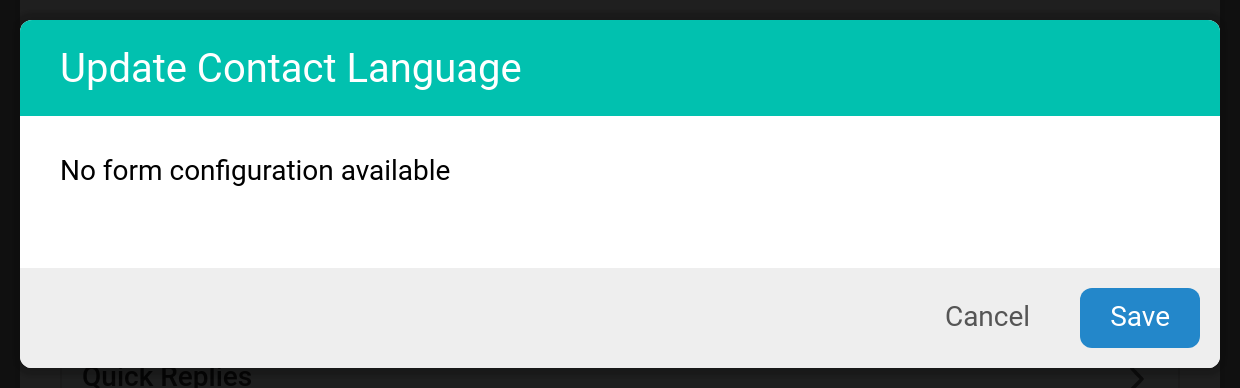
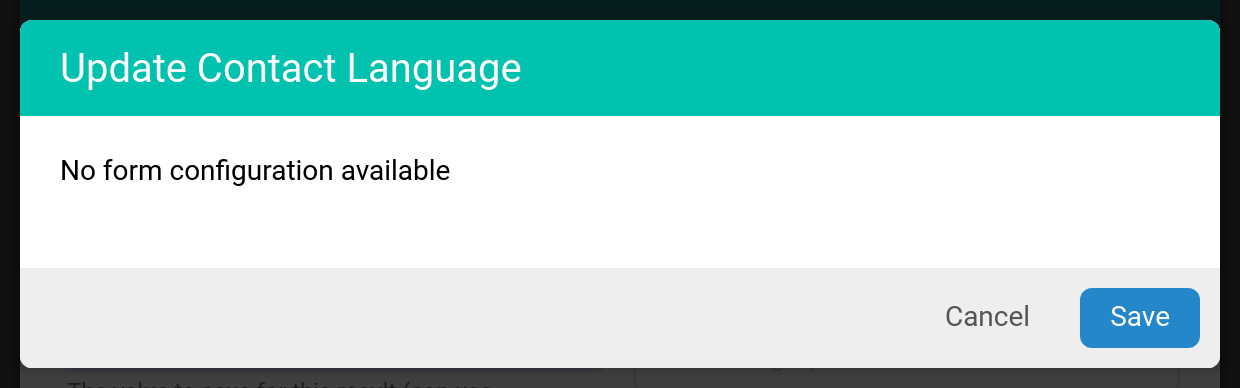
Save results into app state

Changed region(s): [[0.0, 0.9278, 1.0, 1.0], [0.0, 0.0, 1.0, 0.0309]]

diff --git a/src/flow/actions/set_run_result.ts b/src/flow/actions/set_run_result.ts
@@ -1,11 +1,85 @@
 import { html } from 'lit-html';
 import { ActionConfig, COLORS } from '../types';
 import { Node, SetRunResult } from '../../store/flow-definition';
+import { getStore } from '../../store/Store';
 
 export const set_run_result: ActionConfig = {
   name: 'Save Flow Result',
   color: COLORS.save,
   render: (_node: Node, action: SetRunResult) => {
     return html`<div>Save ${action.value} as <b>${action.name}</b></div>`;
+  },
+  form: {
+    name: {
+      type: 'select',
+      label: 'Result Name',
+      helpText: 'Select an existing result name or type a new one',
+      required: true,
+      placeholder: 'Select or enter result name...',
+      tags: true,
+      searchable: true,
+      clearable: false,
+      options: []
+    },
+    value: {
+      type: 'text',
+      label: 'Value',
+      helpText: 'The value to save for this result (can use expressions)',
+      required: false,
+      evaluated: true,
+      placeholder: 'Enter value...'
+    },
+    category: {
+      type: 'text',
+      label: 'Category',
+      helpText: 'Optional category for this result',
+      required: false,
+      placeholder: 'Enter category...'
+    }
+  },
+  layout: ['name', 'value', 'category'],
+  toFormData: (action: SetRunResult) => {
+    // Get existing flow results to populate the select options
+    const store = getStore();
+    const flowResults = store ? store.getState().getFlowResults() : [];
+
+    // Update the form configuration with dynamic options
+    const config = set_run_result;
+    if (config.form && config.form.name && config.form.name.type === 'select') {
+      (config.form.name as any).options = flowResults.map(
+        (result) => result.name
+      );
+    }
+
+    return {
+      uuid: action.uuid,
+      name: action.name || '',
+      value: action.value || '',
+      category: action.category || ''
+    };
+  },
+  fromFormData: (formData: any): SetRunResult => {
+    // Ensure name is a simple string, handling both direct values and select option objects
+    let name = formData.name || '';
+    if (Array.isArray(name) && name.length > 0) {
+      // If it's an array (from multi-select), take the first item
+      name = name[0];
+    }
+    if (typeof name === 'object' && name.value) {
+      // If it's an option object, extract the value
+      name = name.value;
+    }
+    if (typeof name === 'object' && name.name) {
+      // If it's an option object with name property, extract it
+      name = name.name;
+    }
+
+    return {
+      uuid: formData.uuid,
+      type: 'set_run_result',
+      name: String(name), // Ensure it's always a string
+      value: formData.value || '',
+      category: formData.category || ''
+    };
   }
 };

diff --git a/static/css/temba-components.css b/static/css/temba-components.css
@@ -61,7 +61,7 @@
     --color-text-light: rgba(255, 255, 255, 1);
     --color-text-dark: rgba(0, 0, 0, 0.8);
     --color-text-dark-secondary: rgba(0, 0, 0, 0.25);
-    --color-text-help: rgba(0, 0, 0, 0.35);
+    --color-text-help: rgb(120, 120, 120);
     --color-tertiary: rgb(var(--tertiary-rgb));
 
     --help-text-size: 0.85em;
@@ -125,8 +125,8 @@
     --header-bg: var(--color-primary-dark);
     --header-text: var(--color-text-light);
 
-    --temba-textinput-padding: 9px;
-    --temba-textinput-font-size: 13px;
+    --temba-textinput-padding: 9px 14px;
+    --temba-textinput-font-size: 14px;
 
     --options-block-shadow: 0 1px 3px 0 rgba(0, 0, 0, 0.1), 0 1px 2px 0 rgba(0, 0, 0, 0.03);
     --options-shadow: 0 10px 15px -3px rgba(0, 0, 0, 0.1), 0 4px 6px -2px rgba(0, 0, 0, 0.05);

diff --git a/src/flow/Editor.ts b/src/flow/Editor.ts
@@ -383,7 +383,18 @@ export class Editor extends RapidElement {
 
   private saveChanges(): void {
     // post the flow definition to the server
-    getStore().postJSON(`/flow/revisions/${this.flow}`, this.definition);
+    getStore()
+      .postJSON(`/flow/revisions/${this.flow}`, this.definition)
+      .then((response) => {
+        // Update flow info with the response data
+        if (response.json && response.json.info) {
+          getStore().getState().setFlowInfo(response.json.info);
+        }
+      })
+      .catch((error) => {
+        console.error('Failed to save flow:', error);
+      });
+
     getStore().getState().setDirtyDate(null);
   }
 

diff --git a/src/form/select/Select.ts b/src/form/select/Select.ts
@@ -335,7 +335,7 @@ export class Select<T extends SelectOption> extends FormElement {
       .small {
         --temba-select-selected-padding: 6px;
         --temba-select-selected-line-height: 12px;
-        --temba-select-selected-font-size: 12px;
+        --temba-select-selected-font-size: 14px;
         --temba-select-min-height: 2.28em;
       }
 
